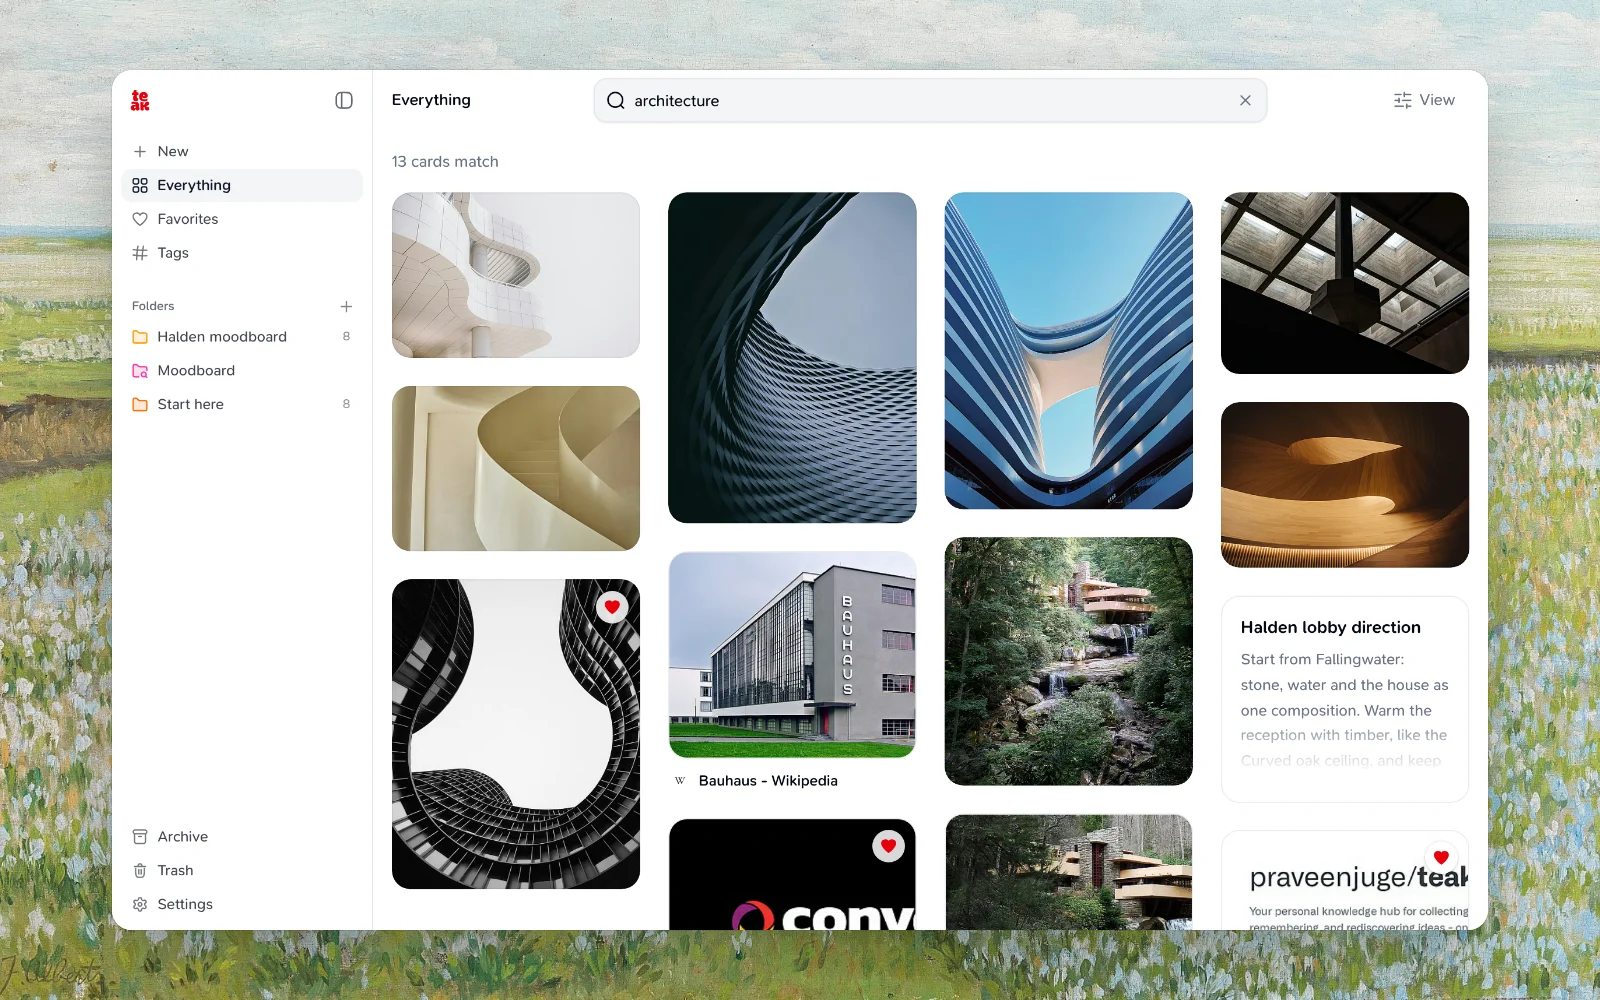
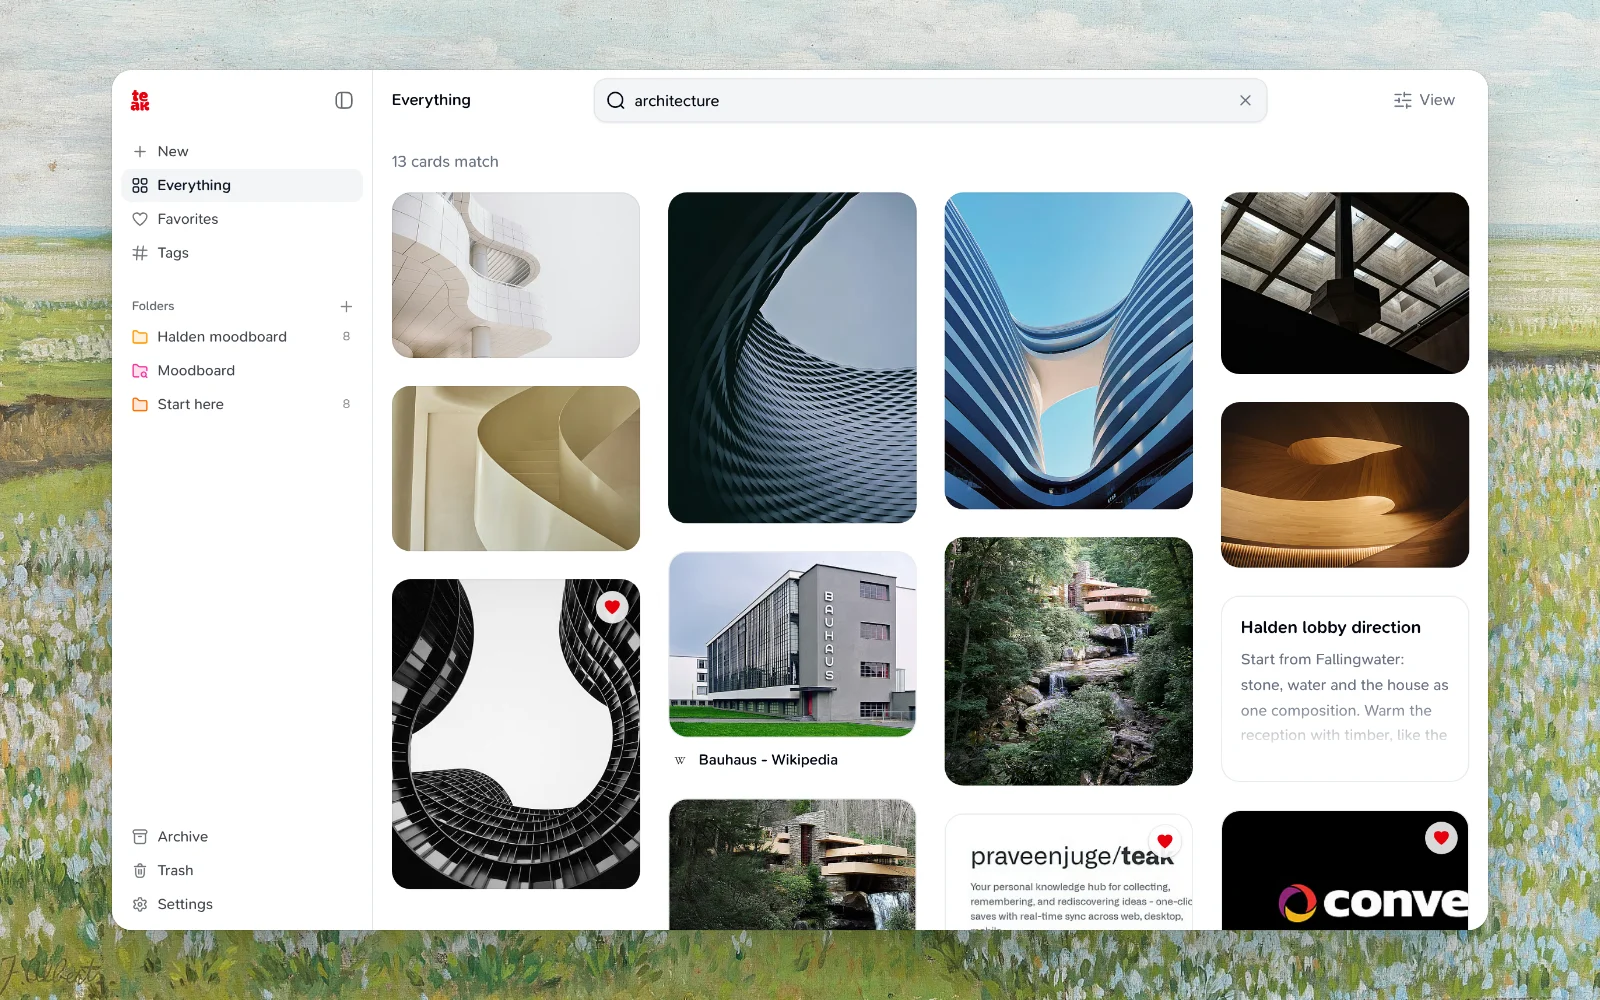
fix(web): shorter tiles, rings on the tile, no frame in Revisit
- Tiles are 4:3 instead of 6:5, a little shorter; the PDF page and a
  priced link's cover title shrink to fit.
- Focus and selection rings draw around the tile, so a link's name line
  stays outside them; the card keeps layout and style containment
  instead of paint containment, which clipped the ring.
- Revisit no longer wraps a card in its own white, ringed frame, and
  sizes each card by its tile shape.
- A priced link without an image keeps room under its site name for the
  price badge.
- A video's hover scrub frames crop to the tile like its still instead
  of stretching when the tile's shape is clamped.
- Docs images showing the grid are recaptured.

Claude-Session: https://claude.ai/code/session_01QnnsYuU2Z18roRK9FavbV3

Changed region(s): [[0.4062, 0.558, 0.9375, 0.93], [0.7812, 0.713, 0.8125, 0.744]]

diff --git a/apps/web/src/components/cards/previews/__tests__/GridVideoPreview.scrub.test.tsx b/apps/web/src/components/cards/previews/__tests__/GridVideoPreview.scrub.test.tsx
@@ -14,7 +14,7 @@ mock.module("convex/react", () => ({
 
 const { act } = await import("react");
 const { createRoot } = await import("react-dom/client");
-const { GridVideoPreview, scrubFrameIndex } = await import(
+const { GridVideoPreview, scrubFrameIndex, scrubSpriteStyle } = await import(
   "../GridVideoPreview"
 );
 
@@ -123,13 +123,13 @@ describe("GridVideoPreview scrubbing", () => {
     const first = sprite(container);
     expect(first).not.toBeNull();
     expect(first?.style.width).toBe("1000%");
-    expect(first?.style.transform).toBe("translateX(-0%)");
+    expect(first?.style.left).toBe("0%");
 
     await pointer(surface, "pointermove", "mouse", 200);
-    expect(sprite(container)?.style.transform).toBe("translateX(-50%)");
+    expect(sprite(container)?.style.left).toBe("-500%");
 
     await pointer(surface, "pointermove", "mouse", 299);
-    expect(sprite(container)?.style.transform).toBe("translateX(-90%)");
+    expect(sprite(container)?.style.left).toBe("-900%");
   });
 
   test("leaving resets to the first frame and hides the sprite", async () => {
@@ -145,7 +145,7 @@ describe("GridVideoPreview scrubbing", () => {
     await pointer(surface, "pointerout", "mouse");
 
     expect(sprite(container)?.className).toContain("opacity-0");
-    expect(sprite(container)?.style.transform).toBe("translateX(-0%)");
+    expect(sprite(container)?.style.left).toBe("0%");
   });
 
   test("falls back to hover video without scrub data", async () => {
@@ -157,5 +157,24 @@ describe("GridVideoPreview scrubbing", () => {
     await pointer(surface, "pointerover", "mouse");
 
     expect(sprite(container)).toBeNull();
+  });
+
+  test("crops a frame of another shape than the tile around its center", () => {
+    const portrait = { frames: 4, frameHeight: 160, frameWidth: 90 };
+    expect(scrubSpriteStyle(0, portrait, 3 / 4)).toEqual({
+      height: "133.3333%",
+      left: "0%",
+      top: "-16.6667%",
+      width: "400%",
+    });
+    expect(scrubSpriteStyle(2, portrait, 3 / 4).left).toBe("-200%");
+
+    const panorama = { frames: 4, frameHeight: 100, frameWidth: 300 };
+    expect(scrubSpriteStyle(1, panorama, 16 / 9)).toEqual({
+      height: "100%",
+      left: "-203.125%",
+      top: "0%",
+      width: "675%",
+    });
   });
 });

diff --git a/apps/web/src/components/revisit/RevisitDeck.tsx b/apps/web/src/components/revisit/RevisitDeck.tsx
@@ -30,6 +30,7 @@ import { resolveLinkTitle } from "../../lib/linkTitle";
 import { cn } from "../../lib/utils";
 import { getCardAccessibleLabel } from "../cards/Card";
 import { CardBody } from "../cards/CardBody";
+import { mediaAspectRatio } from "../cards/cardDisplay";
 import { cardTypeLabel } from "../cards/cardTypeLabel";
 import {
   successfulLinkPreview,
@@ -94,15 +95,26 @@ export function focusRevisitDeck(): boolean {
   return deck !== null;
 }
 
-const mediaWidth = (card: CardWithUrls): string | undefined => {
-  const isMedia =
-    card.type === "image" || card.type === "video" || card.type === "document";
-  const width = card.fileMetadata?.width;
-  const height = card.fileMetadata?.height;
-  if (!(isMedia && width && height)) {
-    return undefined;
+/**
+ * A deck card is as wide as its tile can be without passing the deck's
+ * height: an image or video at its own shape, any other card at the grid's
+ * 4:3 tile, leaving a link room for its name line under the tile.
+ */
+const DECK_TILE_RATIO = 4 / 3;
+const deckCardWidth = (card: CardWithUrls): string => {
+  if (card.type === "image" || card.type === "video") {
+    const ratio = mediaAspectRatio(
+      card.fileMetadata?.width,
+      card.fileMetadata?.height,
+      card.type === "video" ? 16 / 9 : 4 / 3
+    );
+    return `min(100%, calc(var(--revisit-card-height) * ${ratio}))`;
   }
-  return `min(100%, calc(var(--revisit-card-height) * ${width / height}))`;
+  const height =
+    card.type === "link"
+      ? "(var(--revisit-card-height) - 2.25rem)"
+      : "var(--revisit-card-height)";
+  return `min(100%, calc(${height} * ${DECK_TILE_RATIO}))`;
 };
 
 const deckCardTitle = (
@@ -125,8 +137,8 @@ function DeckCard({ card }: { card: CardWithUrls }) {
   const title = deckCardTitle(card, tLinkTitle);
   return (
     <div
-      className="max-h-(--revisit-card-height) overflow-hidden rounded-2xl bg-card shadow-lg ring-1 ring-border"
-      style={{ width: mediaWidth(card) ?? "100%" }}
+      className="max-h-(--revisit-card-height)"
+      style={{ width: deckCardWidth(card) }}
     >
       <CardBody
         card={card}

diff --git a/apps/web/src/components/cards/previews/GridVideoPreview.tsx b/apps/web/src/components/cards/previews/GridVideoPreview.tsx
@@ -43,6 +43,31 @@ export function scrubFrameIndex(
   return Math.min(count - 1, Math.max(0, Math.floor((x / width) * count)));
 }
 
+/**
+ * Places the scrub sprite so the current frame covers the tile the way the
+ * still does: a frame of another shape than the tile (a 9:16 recording in a
+ * 3:4 tile) is cropped around its center, never stretched.
+ */
+export function scrubSpriteStyle(
+  frame: number,
+  scrub: ScrubMetadata,
+  tileRatio: number
+): { height: string; left: string; top: string; width: string } {
+  const frameRatio =
+    scrub.frameWidth > 0 && scrub.frameHeight > 0
+      ? scrub.frameWidth / scrub.frameHeight
+      : tileRatio;
+  const frameWidth = Math.max(frameRatio / tileRatio, 1) * 100;
+  const frameHeight = Math.max(tileRatio / frameRatio, 1) * 100;
+  const round = (value: number) => `${Number(value.toFixed(4))}%`;
+  return {
+    height: round(frameHeight),
+    left: round(-(frame * frameWidth + (frameWidth - 100) / 2)),
+    top: round(-(frameHeight - 100) / 2),
+    width: round(scrub.frames * frameWidth),
+  };
+}
+
 function isValidScrub(scrub?: ScrubMetadata): scrub is ScrubMetadata {
   return !!scrub && Number.isFinite(scrub.frames) && scrub.frames >= 1;
 }
@@ -125,16 +150,13 @@ function ScrubPreview({
         <ResilientMediaImage
           alt=""
           cardId={cardId}
-          className={`pointer-events-none absolute top-0 left-0 h-full max-w-none ${showSprite ? "" : "opacity-0"}`}
+          className={`pointer-events-none absolute max-w-none ${showSprite ? "" : "opacity-0"}`}
           decoding="async"
           draggable={false}
           onLoad={() => setIsSpriteLoaded(true)}
           src={scrubUrl}
           storageKey={scrubKey}
-          style={{
-            transform: `translateX(-${(frame / scrub.frames) * 100}%)`,
-            width: `${scrub.frames * 100}%`,
-          }}
+          style={scrubSpriteStyle(frame, scrub, aspectRatio)}
         />
       ) : null}
 

diff --git a/apps/web/src/components/cards/cardDisplay.ts b/apps/web/src/components/cards/cardDisplay.ts
@@ -7,16 +7,24 @@ import { startsWithTable } from "@/lib/markdownToPlainText";
 const HOVER_LIFT =
   "transition-[border-color,box-shadow] duration-200 group-hover/card:shadow-[0_12px_32px_-16px_rgb(0_0_0/0.3)]";
 
-export const CARD_SURFACE = `rounded-2xl border border-border/80 bg-card ${HOVER_LIFT} group-hover/card:border-foreground/15`;
+/**
+ * Keyboard focus and selection ring the tile, not the whole card, so a
+ * link's name line under its tile stays outside the ring. Selection wins
+ * while the card also has focus.
+ */
+const CARD_RINGS =
+  "group-has-[[data-slot=card]:focus-visible]/card:ring-2 group-has-[[data-slot=card]:focus-visible]/card:ring-ring group-has-[[data-slot=card]:focus-visible]/card:ring-offset-2 group-has-[[data-slot=card]:focus-visible]/card:ring-offset-background group-data-[selected]/card:ring-2 group-data-[selected]/card:ring-primary! group-data-[selected]/card:ring-offset-2 group-data-[selected]/card:ring-offset-background";
+
+export const CARD_SURFACE = `rounded-2xl border border-border/80 bg-card ${HOVER_LIFT} ${CARD_RINGS} group-hover/card:border-foreground/15`;
 
 /**
  * Every card that isn't an image or a video is a tile of this one shape, so
  * the grid reads as rows of equal cards with media between them.
  */
-export const CARD_TILE = `relative aspect-[6/5] w-full overflow-hidden ${CARD_SURFACE}`;
+export const CARD_TILE = `relative aspect-[4/3] w-full overflow-hidden ${CARD_SURFACE}`;
 
 /** Images and videos have no frame: the picture is the card. */
-export const MEDIA_SURFACE = `relative w-full overflow-hidden rounded-2xl bg-muted outline-1 outline-black/5 -outline-offset-1 dark:outline-white/10 ${HOVER_LIFT}`;
+export const MEDIA_SURFACE = `relative w-full overflow-hidden rounded-2xl bg-muted outline-1 outline-black/5 -outline-offset-1 dark:outline-white/10 ${HOVER_LIFT} ${CARD_RINGS}`;
 
 /** Price, duration and file type all sit in this pill, bottom left. */
 export const CARD_BADGE =

diff --git a/apps/web/src/components/cards/Card.tsx b/apps/web/src/components/cards/Card.tsx
@@ -565,7 +565,11 @@ export const Card = memo(function Card({
   return (
     <ContextMenu>
       <ContextMenuTrigger asChild disabled={isOptimistic}>
-        <div className="group/card relative" data-card-shell="">
+        <div
+          className="group/card relative"
+          data-card-shell=""
+          data-selected={isSelected || undefined}
+        >
           <UICard
             aria-disabled={isOptimistic || undefined}
             aria-keyshortcuts={
@@ -581,11 +585,11 @@ export const Card = memo(function Card({
             aria-label={getCardAccessibleLabel(card, linkCardTitle, tLabel)}
             aria-pressed={isSelectionMode ? Boolean(isSelected) : undefined}
             className={cn(
-              "relative scroll-my-20 overflow-hidden rounded-2xl border-0 bg-transparent p-0 outline-none contain-content focus-visible:ring-2 focus-visible:ring-ring focus-visible:ring-offset-2 focus-visible:ring-offset-background",
+              // The focus and selection rings sit on the tile itself (see
+              // CARD_SURFACE), so a link's name line stays outside them.
+              "relative scroll-my-20 rounded-2xl border-0 bg-transparent p-0 outline-none contain-layout contain-style",
               isOptimistic ? "cursor-default opacity-70" : "cursor-pointer",
-              card.isDeleted && "opacity-60",
-              isSelected &&
-                "ring-2 ring-primary ring-offset-2 ring-offset-background focus-visible:ring-[3px] focus-visible:ring-primary"
+              card.isDeleted && "opacity-60"
             )}
             data-card-id={
               isOptimistic || isFirstPaintCopy ? undefined : card._id

diff --git a/apps/web/src/components/cards/LinkCardBody.tsx b/apps/web/src/components/cards/LinkCardBody.tsx
@@ -73,7 +73,14 @@ export function LinkCardBody({
           {priceLabel ? <span className={CARD_BADGE}>{priceLabel}</span> : null}
         </div>
       ) : (
-        <div className={cn(CARD_TILE, "flex flex-col p-4", textInsets)}>
+        <div
+          className={cn(
+            CARD_TILE,
+            "flex flex-col p-4",
+            priceLabel && "pb-11",
+            textInsets
+          )}
+        >
           {hostname ? (
             <SiteFavicon
               className="size-[22px] rounded-md"
@@ -82,7 +89,10 @@ export function LinkCardBody({
           ) : null}
           <div className="mt-auto min-w-0">
             <p
-              className="line-clamp-3 text-balance break-words font-serif text-[21px] leading-[1.12] tracking-[-0.015em]"
+              className={cn(
+                "text-balance break-words font-serif text-[21px] leading-[1.12] tracking-[-0.015em]",
+                priceLabel ? "line-clamp-2" : "line-clamp-3"
+              )}
               dir="auto"
             >
               {displayTitle}

diff --git a/apps/web/src/components/grids/__tests__/MasonryGrid.keyboard.test.tsx b/apps/web/src/components/grids/__tests__/MasonryGrid.keyboard.test.tsx
@@ -342,10 +342,14 @@ describe("MasonryGrid keyboard actions", () => {
   test("a card selected with the keyboard keeps the selected ring while focused", async () => {
     const { cardElement } = await renderGrid({});
     await press(cardElement("card_a"), "x");
-    const className = cardElement("card_a").className;
-    expect(className).toContain("ring-primary");
-    expect(className).toContain("focus-visible:ring-primary");
-    expect(className).not.toContain("focus-visible:ring-ring ");
+    const shell = cardElement("card_a").closest("[data-card-shell]");
+    expect(shell?.hasAttribute("data-selected")).toBe(true);
+    // The ring sits on the tile, and selection's color wins over focus's.
+    const tile = cardElement("card_a").querySelector(
+      "[class*='group-data-[selected]/card:ring-primary!']"
+    );
+    expect(tile).not.toBeNull();
+    expect(cardElement("card_a").className).not.toContain("ring-");
   });
 
   test("a dialog opened from the grid returns focus to the card it showed last", async () => {

diff --git a/apps/web/src/components/cards/__tests__/Card.test.tsx b/apps/web/src/components/cards/__tests__/Card.test.tsx
@@ -400,7 +400,7 @@ describe("Cards/Card", () => {
 
     expect(markup).toContain('src="https://example.com/screenshot.jpg"');
     expect(markup).not.toContain("unsized.jpg");
-    expect(markup).toContain("aspect-[6/5]");
+    expect(markup).toContain("aspect-[4/3]");
   });
 
   test("falls back to an unsized screenshot when the link has no other image", () => {
@@ -663,6 +663,8 @@ describe("Cards/Card redesign", () => {
     );
     expect(markup).not.toContain("og.jpg");
     expect(markup).toContain(">Desk lamp</p>");
+    // The cover keeps room under the site name, so the badge never covers it.
+    expect(markup).toMatch(/class="[^"]*aspect-\[4\/3\][^"]*pb-11/);
     expect(markup).toMatch(
       /<span class="[^"]*bottom-2\.5 left-2\.5[^"]*">\$24\.99<\/span>/
     );

diff --git a/apps/web/src/components/cards/previews/GridDocumentPreview.tsx b/apps/web/src/components/cards/previews/GridDocumentPreview.tsx
@@ -33,9 +33,9 @@ export function GridDocumentPreview({
   ) : null;
   if (thumbnailUrl) {
     return (
-      <div className={cn(CARD_TILE, "flex items-end justify-center pt-7")}>
+      <div className={cn(CARD_TILE, "flex items-end justify-center pt-5")}>
         <div
-          className="relative w-[56%] overflow-hidden rounded-t-[4px] bg-white shadow-[0_10px_30px_-10px_rgb(0_0_0/0.35),0_0_0_1px_rgb(0_0_0/0.06)]"
+          className="relative w-[50%] overflow-hidden rounded-t-[4px] bg-white shadow-[0_10px_30px_-10px_rgb(0_0_0/0.35),0_0_0_1px_rgb(0_0_0/0.06)]"
           style={{
             aspectRatio:
               width && height ? width / height : FALLBACK_ASPECT_RATIO,

diff --git a/apps/web/src/components/feedback/CardSkeleton.tsx b/apps/web/src/components/feedback/CardSkeleton.tsx
@@ -10,7 +10,7 @@ import {
 
 export function CardSkeleton() {
   return (
-    <Card className="flex aspect-[6/5] flex-col justify-between rounded-2xl p-4 shadow-none">
+    <Card className="flex aspect-[4/3] flex-col justify-between rounded-2xl p-4 shadow-none">
       <div className="space-y-3">
         <Skeleton className="h-4 w-3/4" />
         <Skeleton className="h-3 w-full" />

diff --git a/.agents/skills/verify-teak/features/card-tiles.md b/.agents/skills/verify-teak/features/card-tiles.md
@@ -1,6 +1,6 @@
 # Card tiles in the grid
 
-Every card in the web grid that isn't an image or a video is a white tile of one shape (6:5, a little wider than tall) with a gray border: notes, quotes, links, palettes, audio and documents. Images and videos keep their own shape, held between portrait 3:4 and widescreen 16:9, and have no frame. Only links have a line under the tile: the site's favicon, the link's name, and the done mark once marked. Price, video length, audio format and length, and a document's file type all sit in one dark pill at the tile's bottom left.
+Every card in the web grid that isn't an image or a video is a white tile of one shape (4:3, a little wider than tall) with a gray border: notes, quotes, links, palettes, audio and documents. Images and videos keep their own shape, held between portrait 3:4 and widescreen 16:9, and have no frame. Only links have a line under the tile: the site's favicon, the link's name, and the done mark once marked. Price, video length, audio format and length, and a document's file type all sit in one dark pill at the tile's bottom left.
 
 ## Sub-features
 
@@ -12,15 +12,15 @@ Every card in the web grid that isn't an image or a video is a white tile of one
 - `tile-palette` fills the tile with the palette's colors; a swatch widens and shows its hex code on hover.
 - `tile-audio` shows the recording's name at the top, then the play button and the waveform.
 - `tile-document` shows the first page of a document with a thumbnail inside the tile; one without a thumbnail shows a file icon and its name.
-- `tile-states` keeps the existing marks and states on the new tiles: favorite and pin marks at the top right, the hover actions ("Open link", "Favorite", "More actions") and "Select", the selection ring, the keyboard focus ring, and the processing bar while a card is still being processed. The loading skeleton uses the same tile shape.
+- `tile-states` keeps the existing marks and states on the new tiles: favorite and pin marks at the top right, the hover actions ("Open link", "Favorite", "More actions") and "Select", the selection ring and the keyboard focus ring (both around the tile only, so a link's name line stays outside them), and the processing bar while a card is still being processed. The loading skeleton uses the same tile shape.
 
 ## How to get to it (user POV)
 
-- Web: Everything, any folder, Favorites, a search, or "Revisit" in the View menu (the deck shows the same tile). Dark mode follows Settings → Appearance or the system. "Compact" density in the View menu shrinks the columns; the tiles keep their shape.
+- Web: Everything, any folder, Favorites, a search, or "Revisit" in the View menu (the deck shows the same tile, with no extra frame around it). Dark mode follows Settings → Appearance or the system. "Compact" density in the View menu shrinks the columns; the tiles keep their shape.
 
 ## Driving it with the e2e MCP server and the API
 
-- **Seeded types.** Everything already holds notes, quotes, palettes, links with and without images, an image, a video ("Find anything in Teak.mp4", 0:29), an audio ("Brand refresh voice memo.m4a", 0:17) and a PDF ("Teak search cheat sheet.pdf"). `observe` the grid: each non-media tile is as wide as its column and 5/6 as tall; image and video cards are not.
+- **Seeded types.** Everything already holds notes, quotes, palettes, links with and without images, an image, a video ("Find anything in Teak.mp4", 0:29), an audio ("Brand refresh voice memo.m4a", 0:17) and a PDF ("Teak search cheat sheet.pdf"). `observe` the grid: each non-media tile is as wide as its column and 3/4 as tall; image and video cards are not.
 - **Link covers.** With the API key from `scripts/api-key.ts`, `POST /v1/cards` with `{"content":"https://example.com/","tags":["verify-<run-id>"]}` and with a page that blocks fetching (some store listings do). Search `#verify-<run-id>`: example.com shows the cover "Example Domain" with "example.com" under it and a globe favicon; the blocked page shows its address as the cover title.
 - **Processing.** Take the screenshot right after the `POST`: the new link's tile is blank or a cover, with the processing bar along the card's bottom edge. It fills in within a minute.
 - **Badges.** A product page whose price Teak reads gets "$…" at the bottom left of its image. Search `type:video` and `type:audio` for "0:29" with a play icon and "M4A · 0:17"; `type:document` for "PDF".
